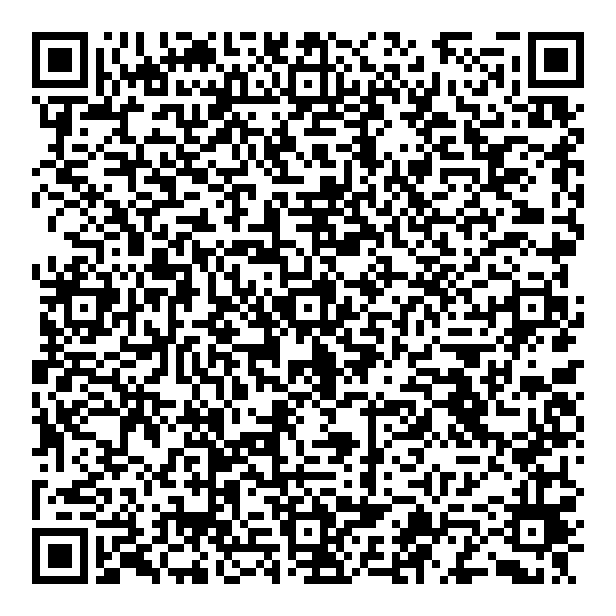
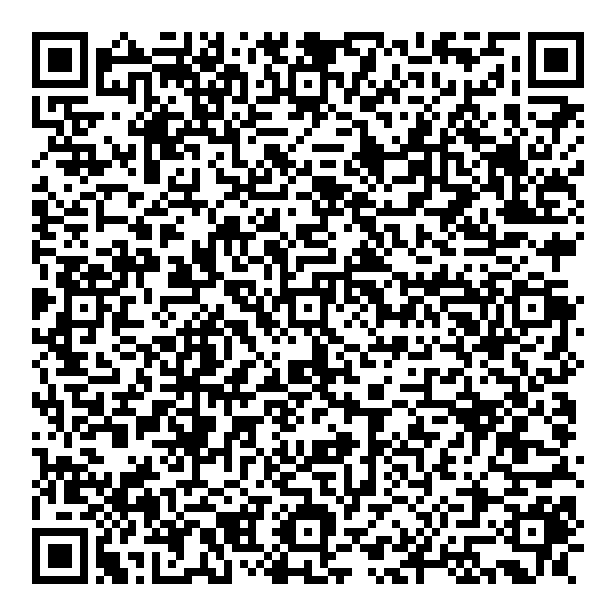
Separate WhatsApp message into three spaced paragraphs
- Add one blank line after the greeting and before the closing request in print, contact links, and both QR payloads.
- Adjust contact-channel spacing and document the paragraph format.
- Verify rendered QR messages match the visible copy and the 21-page A4 print check passes.

diff --git a/proposal.html b/proposal.html
@@ -984,8 +984,8 @@
             <section>
               <h3>Narahubung Sponsorship</h3>
               <ul>
-                <li>Iqtifa — <a href="https://wa.me/6283117737967?text=Assalamualaikum%20wr.%20wb.%0ASaya%20%5Bnama%5D%20dari%20%5Busaha%2Finstansi%5D.%0ASaya%20berminat%20mendukung%20Harlah%20ke-43%20melalui%20paket%20%5Bpilihan%20paket%5D%20%2F%20barang%20atau%20jasa%20%5Bbentuk%20dukungan%5D.%0AMohon%20informasi%20kerja%20samanya.%0ATerima%20kasih.">+62 831-1773-7967</a></li>
-                <li>Zahwa — <a href="https://wa.me/6281330293995?text=Assalamualaikum%20wr.%20wb.%0ASaya%20%5Bnama%5D%20dari%20%5Busaha%2Finstansi%5D.%0ASaya%20berminat%20mendukung%20Harlah%20ke-43%20melalui%20paket%20%5Bpilihan%20paket%5D%20%2F%20barang%20atau%20jasa%20%5Bbentuk%20dukungan%5D.%0AMohon%20informasi%20kerja%20samanya.%0ATerima%20kasih.">+62 813-3029-3995</a></li>
+                <li>Iqtifa — <a href="https://wa.me/6283117737967?text=Assalamualaikum%20wr.%20wb.%0A%0ASaya%20%5Bnama%5D%20dari%20%5Busaha%2Finstansi%5D.%20Saya%20berminat%20mendukung%20Harlah%20ke-43%20melalui%20paket%20%5Bpilihan%20paket%5D%20%2F%20barang%20atau%20jasa%20%5Bbentuk%20dukungan%5D.%0A%0AMohon%20informasi%20kerja%20samanya.%20Terima%20kasih.">+62 831-1773-7967</a></li>
+                <li>Zahwa — <a href="https://wa.me/6281330293995?text=Assalamualaikum%20wr.%20wb.%0A%0ASaya%20%5Bnama%5D%20dari%20%5Busaha%2Finstansi%5D.%20Saya%20berminat%20mendukung%20Harlah%20ke-43%20melalui%20paket%20%5Bpilihan%20paket%5D%20%2F%20barang%20atau%20jasa%20%5Bbentuk%20dukungan%5D.%0A%0AMohon%20informasi%20kerja%20samanya.%20Terima%20kasih.">+62 813-3029-3995</a></li>
               </ul>
             </section>
             <section>
@@ -1001,16 +1001,16 @@
             <h3 id="sponsorship-whatsapp-title">Hubungi kami melalui WhatsApp</h3>
             <p>Pindai salah satu QR atau pilih kontak berikut. Sesuaikan nama, asal, dan pilihan dukungan sebelum mengirim pesan.</p>
             <div class="sponsorship-qr-grid">
-              <a class="sponsorship-qr" href="https://wa.me/6283117737967?text=Assalamualaikum%20wr.%20wb.%0ASaya%20%5Bnama%5D%20dari%20%5Busaha%2Finstansi%5D.%0ASaya%20berminat%20mendukung%20Harlah%20ke-43%20melalui%20paket%20%5Bpilihan%20paket%5D%20%2F%20barang%20atau%20jasa%20%5Bbentuk%20dukungan%5D.%0AMohon%20informasi%20kerja%20samanya.%0ATerima%20kasih.">
+              <a class="sponsorship-qr" href="https://wa.me/6283117737967?text=Assalamualaikum%20wr.%20wb.%0A%0ASaya%20%5Bnama%5D%20dari%20%5Busaha%2Finstansi%5D.%20Saya%20berminat%20mendukung%20Harlah%20ke-43%20melalui%20paket%20%5Bpilihan%20paket%5D%20%2F%20barang%20atau%20jasa%20%5Bbentuk%20dukungan%5D.%0A%0AMohon%20informasi%20kerja%20samanya.%20Terima%20kasih.">
                 <img src="/images/sponsorship-iqtifa-whatsapp-qr.png" width="616" height="616" alt="QR WhatsApp Iqtifa dengan format pesan sponsorship" />
                 <span><strong>Iqtifa</strong><br />+62 831-1773-7967</span>
               </a>
-              <a class="sponsorship-qr" href="https://wa.me/6281330293995?text=Assalamualaikum%20wr.%20wb.%0ASaya%20%5Bnama%5D%20dari%20%5Busaha%2Finstansi%5D.%0ASaya%20berminat%20mendukung%20Harlah%20ke-43%20melalui%20paket%20%5Bpilihan%20paket%5D%20%2F%20barang%20atau%20jasa%20%5Bbentuk%20dukungan%5D.%0AMohon%20informasi%20kerja%20samanya.%0ATerima%20kasih.">
+              <a class="sponsorship-qr" href="https://wa.me/6281330293995?text=Assalamualaikum%20wr.%20wb.%0A%0ASaya%20%5Bnama%5D%20dari%20%5Busaha%2Finstansi%5D.%20Saya%20berminat%20mendukung%20Harlah%20ke-43%20melalui%20paket%20%5Bpilihan%20paket%5D%20%2F%20barang%20atau%20jasa%20%5Bbentuk%20dukungan%5D.%0A%0AMohon%20informasi%20kerja%20samanya.%20Terima%20kasih.">
                 <img src="/images/sponsorship-zahwa-whatsapp-qr.png" width="616" height="616" alt="QR WhatsApp Zahwa dengan format pesan sponsorship" />
                 <span><strong>Zahwa</strong><br />+62 813-3029-3995</span>
               </a>
             </div>
-            <p class="sponsorship-message"><strong>Format pesan</strong><br />Assalamualaikum wr. wb.<br />Saya [nama] dari [usaha/instansi].<br />Saya berminat mendukung Harlah ke-43 melalui paket [pilihan paket] / barang atau jasa [bentuk dukungan].<br />Mohon informasi kerja samanya.<br />Terima kasih.</p>
+            <p class="sponsorship-message"><strong>Format pesan</strong><br />Assalamualaikum wr. wb.<br /><br />Saya [nama] dari [usaha/instansi]. Saya berminat mendukung Harlah ke-43 melalui paket [pilihan paket] / barang atau jasa [bentuk dukungan].<br /><br />Mohon informasi kerja samanya. Terima kasih.</p>
           </section>
           <dl class="full-channels">
             <div>

diff --git a/src/proposal-editorial.css b/src/proposal-editorial.css
@@ -407,6 +407,7 @@
 .editorial-contact .full-channels {
   grid-template-columns: 1fr 1fr;
   margin: 0;
+  padding: 0;
 }
 .sponsorship-whatsapp {
   font-size: 13px;

diff --git a/README.md b/README.md
@@ -129,8 +129,8 @@ Indonesian message template (name, organization, and selected package/in-kind su
 The template and contact numbers are also printed as text. Local 616 × 616 px QR PNGs
 have four-module quiet zones and render at approximately 38 mm square on paper.
 The QR codes and contact-number links include the message; nothing is sent automatically.
-The visible message and both QR payloads use separate lines for the greeting,
-sender identity, requested support, information request, and thanks.
+The visible message and both QR payloads use three paragraphs, separated by one
+blank line: greeting, sender identity and requested support, then the closing request.
 Sponsor slides mean one shared Instagram appreciation carousel,
 separate from dedicated feed posts; recap logos appear at the end of one recap video.
 Logo sizing follows package hierarchy with visually equivalent sizing within each tier.
